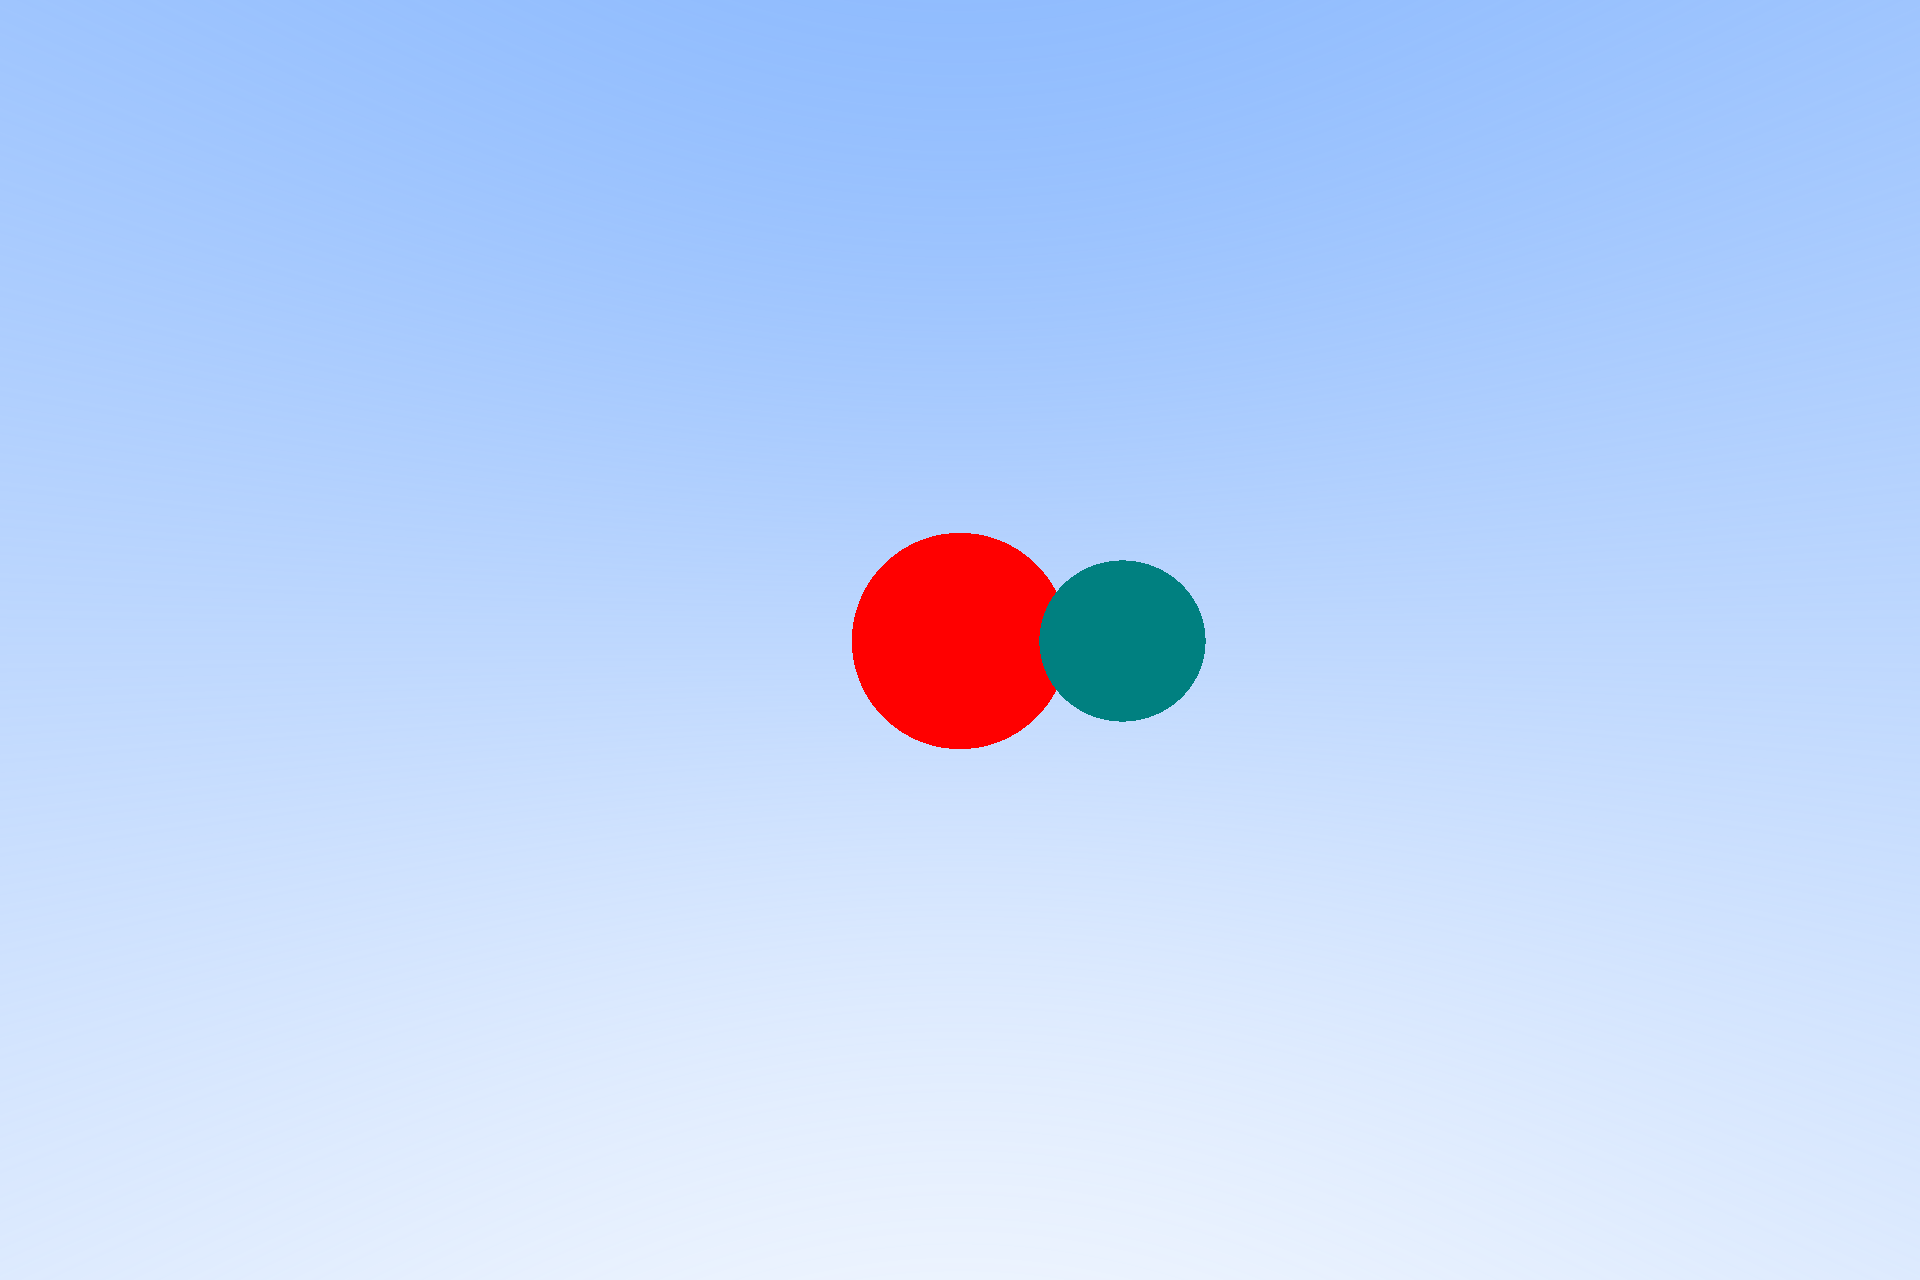
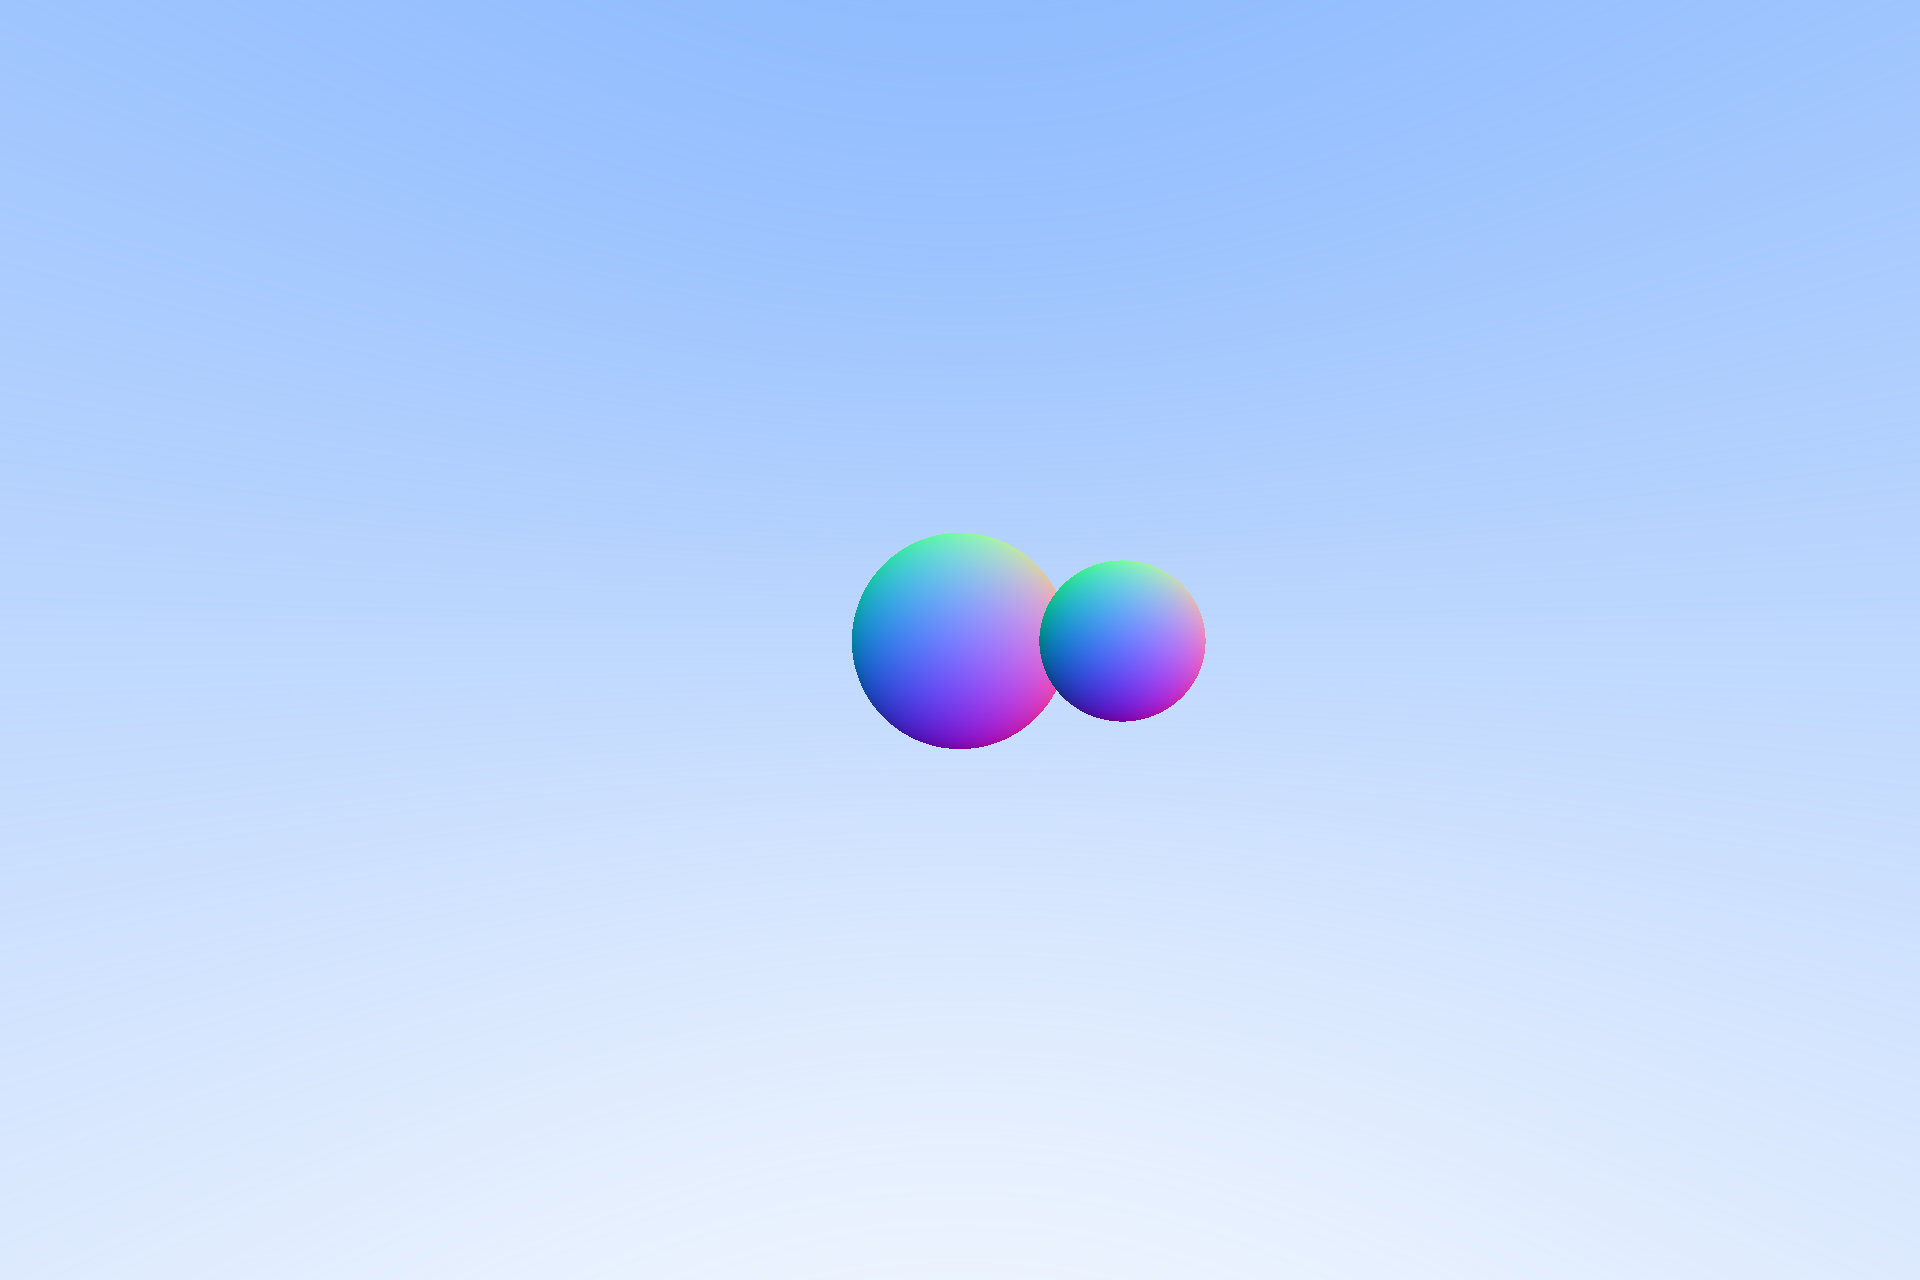
added normals

Changed region(s): [[0.4375, 0.4062, 0.625, 0.5938]]

diff --git a/src/world/object.rs b/src/world/object.rs
@@ -3,8 +3,9 @@ use crate::math::ray::Ray;
 use crate::math::vector::Vector3;
 
 pub trait Object {
-    fn hit_by(&self, ray: &Ray) -> bool;
+    fn hit_at(&self, ray: &Ray) -> Option<f64>;
     fn color(&self) -> Color;
+    fn position(&self) -> Vector3;
 }
 
 pub struct Sphere {
@@ -24,7 +25,7 @@ impl Sphere {
 }
 
 impl Object for Sphere {
-    fn hit_by(&self, ray: &Ray) -> bool {
+    fn hit_at(&self, ray: &Ray) -> Option<f64> {
         let oc = ray.origin - self.position;
 
         let a = ray.direction.dot(ray.direction);
@@ -32,10 +33,18 @@ impl Object for Sphere {
         let c = oc.dot(oc) - self.radius * self.radius;
 
         let discriminant = b * b - 4.0 * a * c;
-        discriminant > 0.0
+        if discriminant < 0.0 {
+            None
+        } else {
+            Some((-b - discriminant.sqrt()) / (2.0 * a))
+        }
     }
 
     fn color(&self) -> Color {
         self.color
+    }
+
+    fn position(&self) -> Vector3 {
+        self.position
     }
 }

diff --git a/src/world/camera.rs b/src/world/camera.rs
@@ -44,8 +44,14 @@ impl Camera {
 
             *pixel = image::Rgb(ray.color().data());
             for object in objects.into_iter() {
-                if object.hit_by(&ray) {
-                    *pixel = image::Rgb(object.color().data());
+                if let Some(t) = object.hit_at(&ray) {
+                    let normal = (ray.at(t) - object.position()).normalize();
+
+                    let r = ((normal.x + 1.0) * 127.0) as u8;
+                    let g = ((normal.y + 1.0) * 127.0) as u8;
+                    let b = ((normal.z + 1.0) * 127.0) as u8;
+
+                    *pixel = image::Rgb([r, g, b]);
                 }
             }
         }
